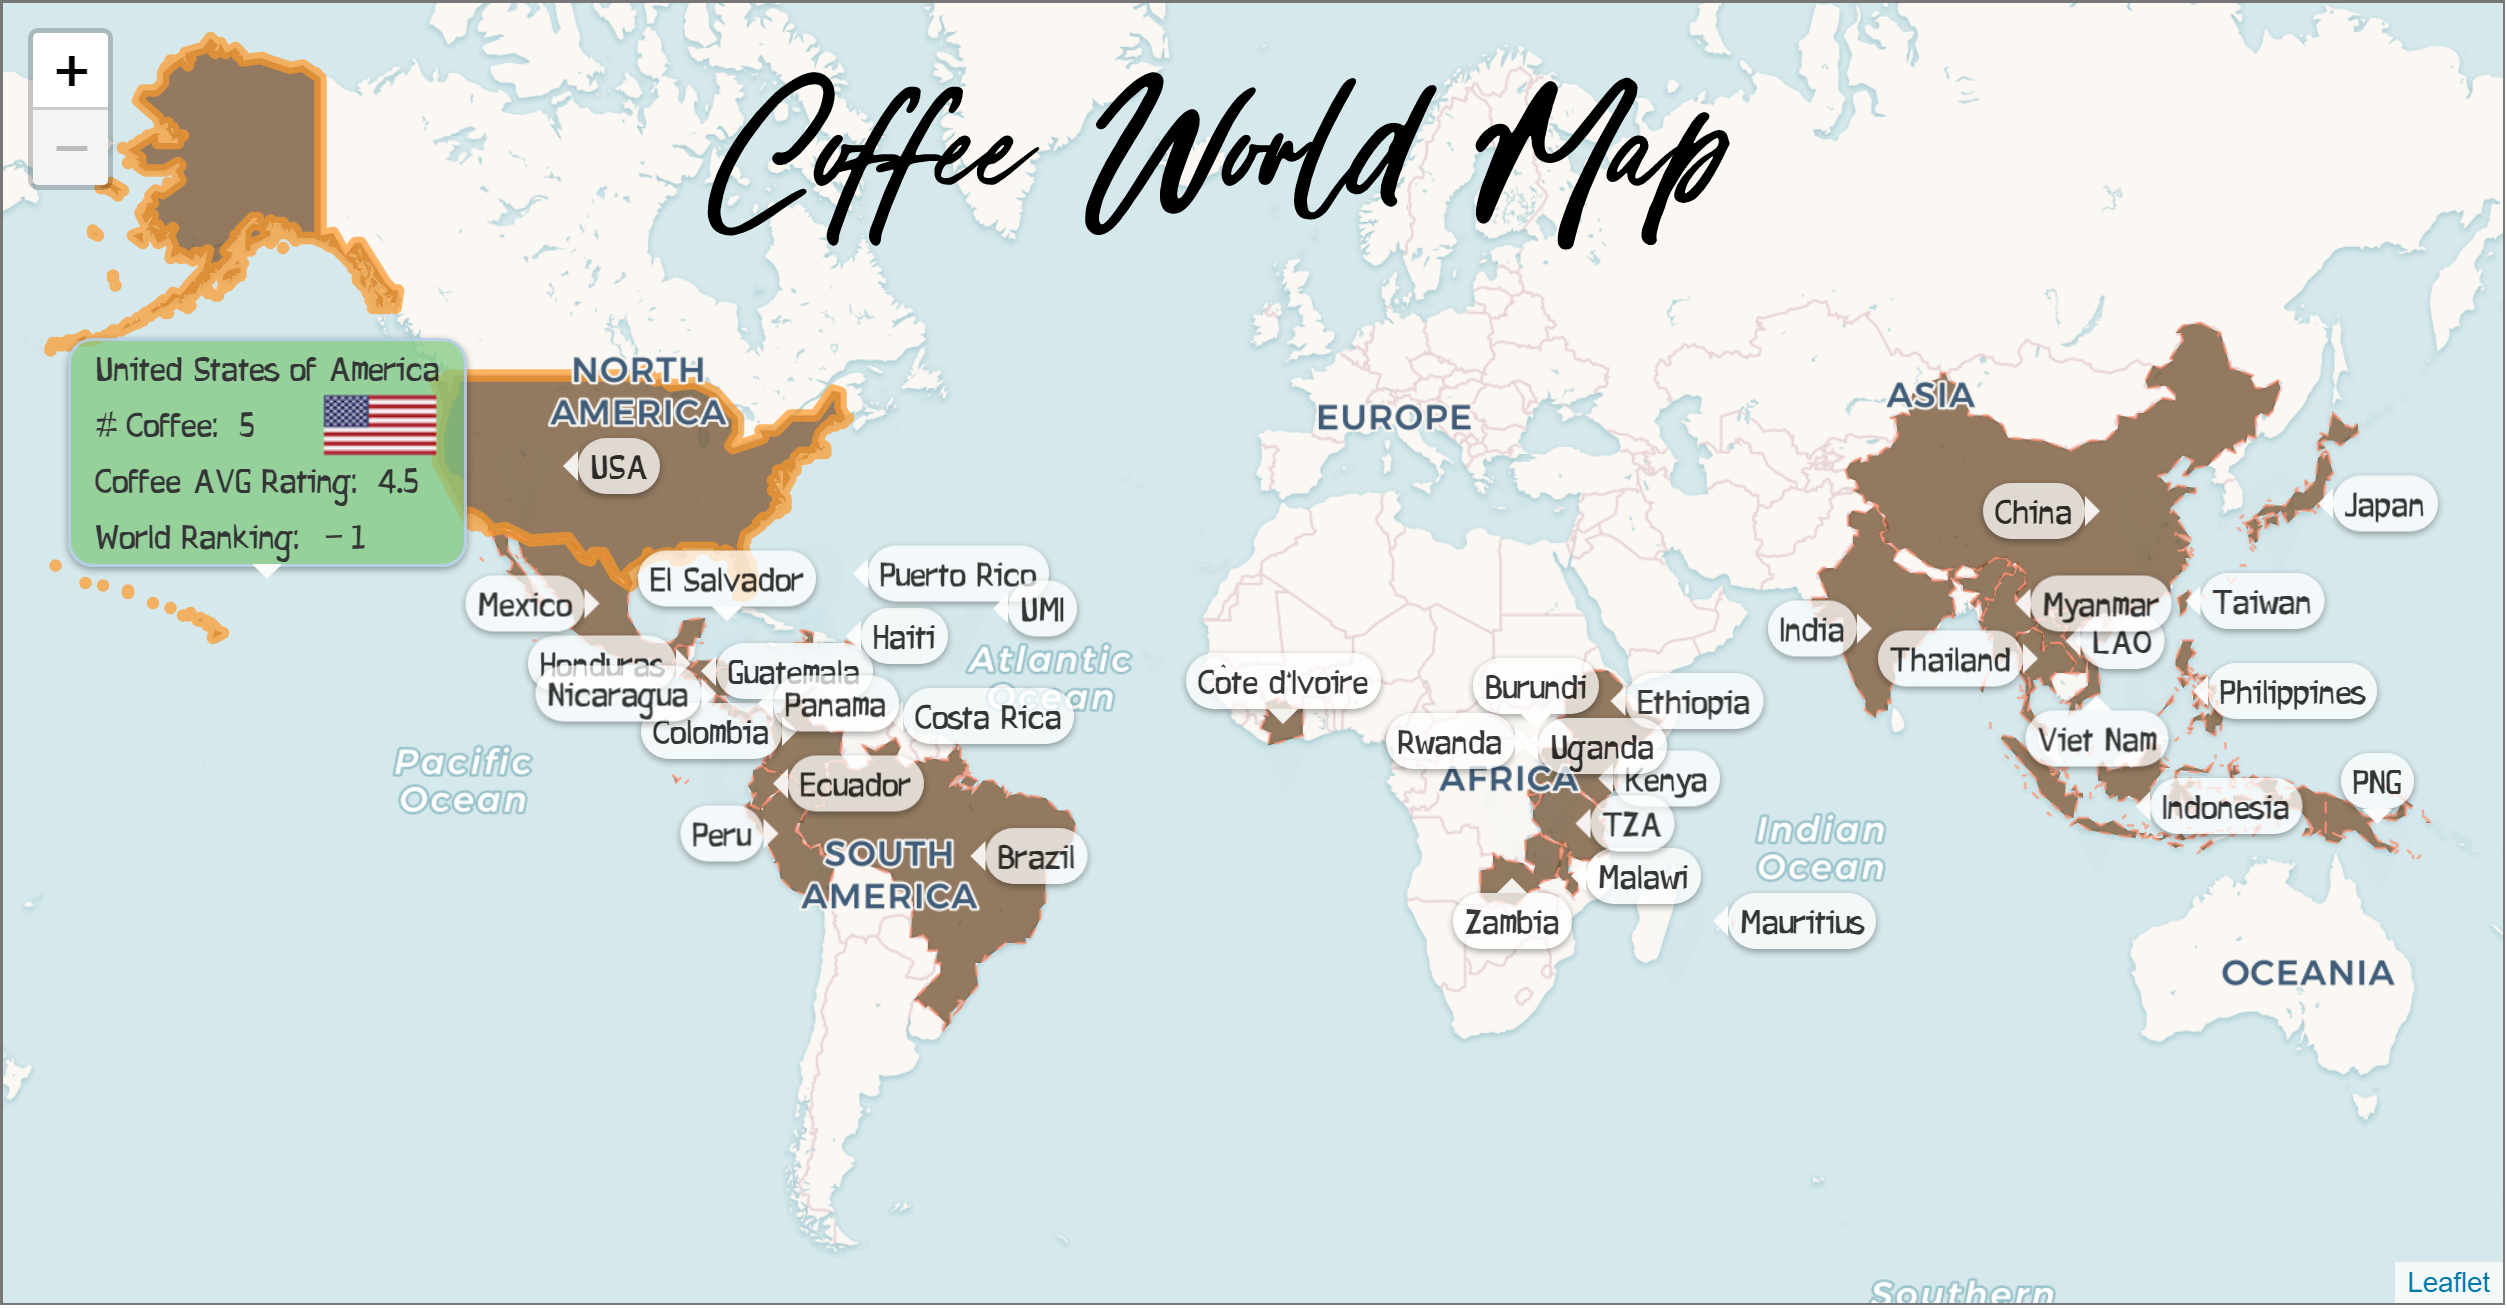
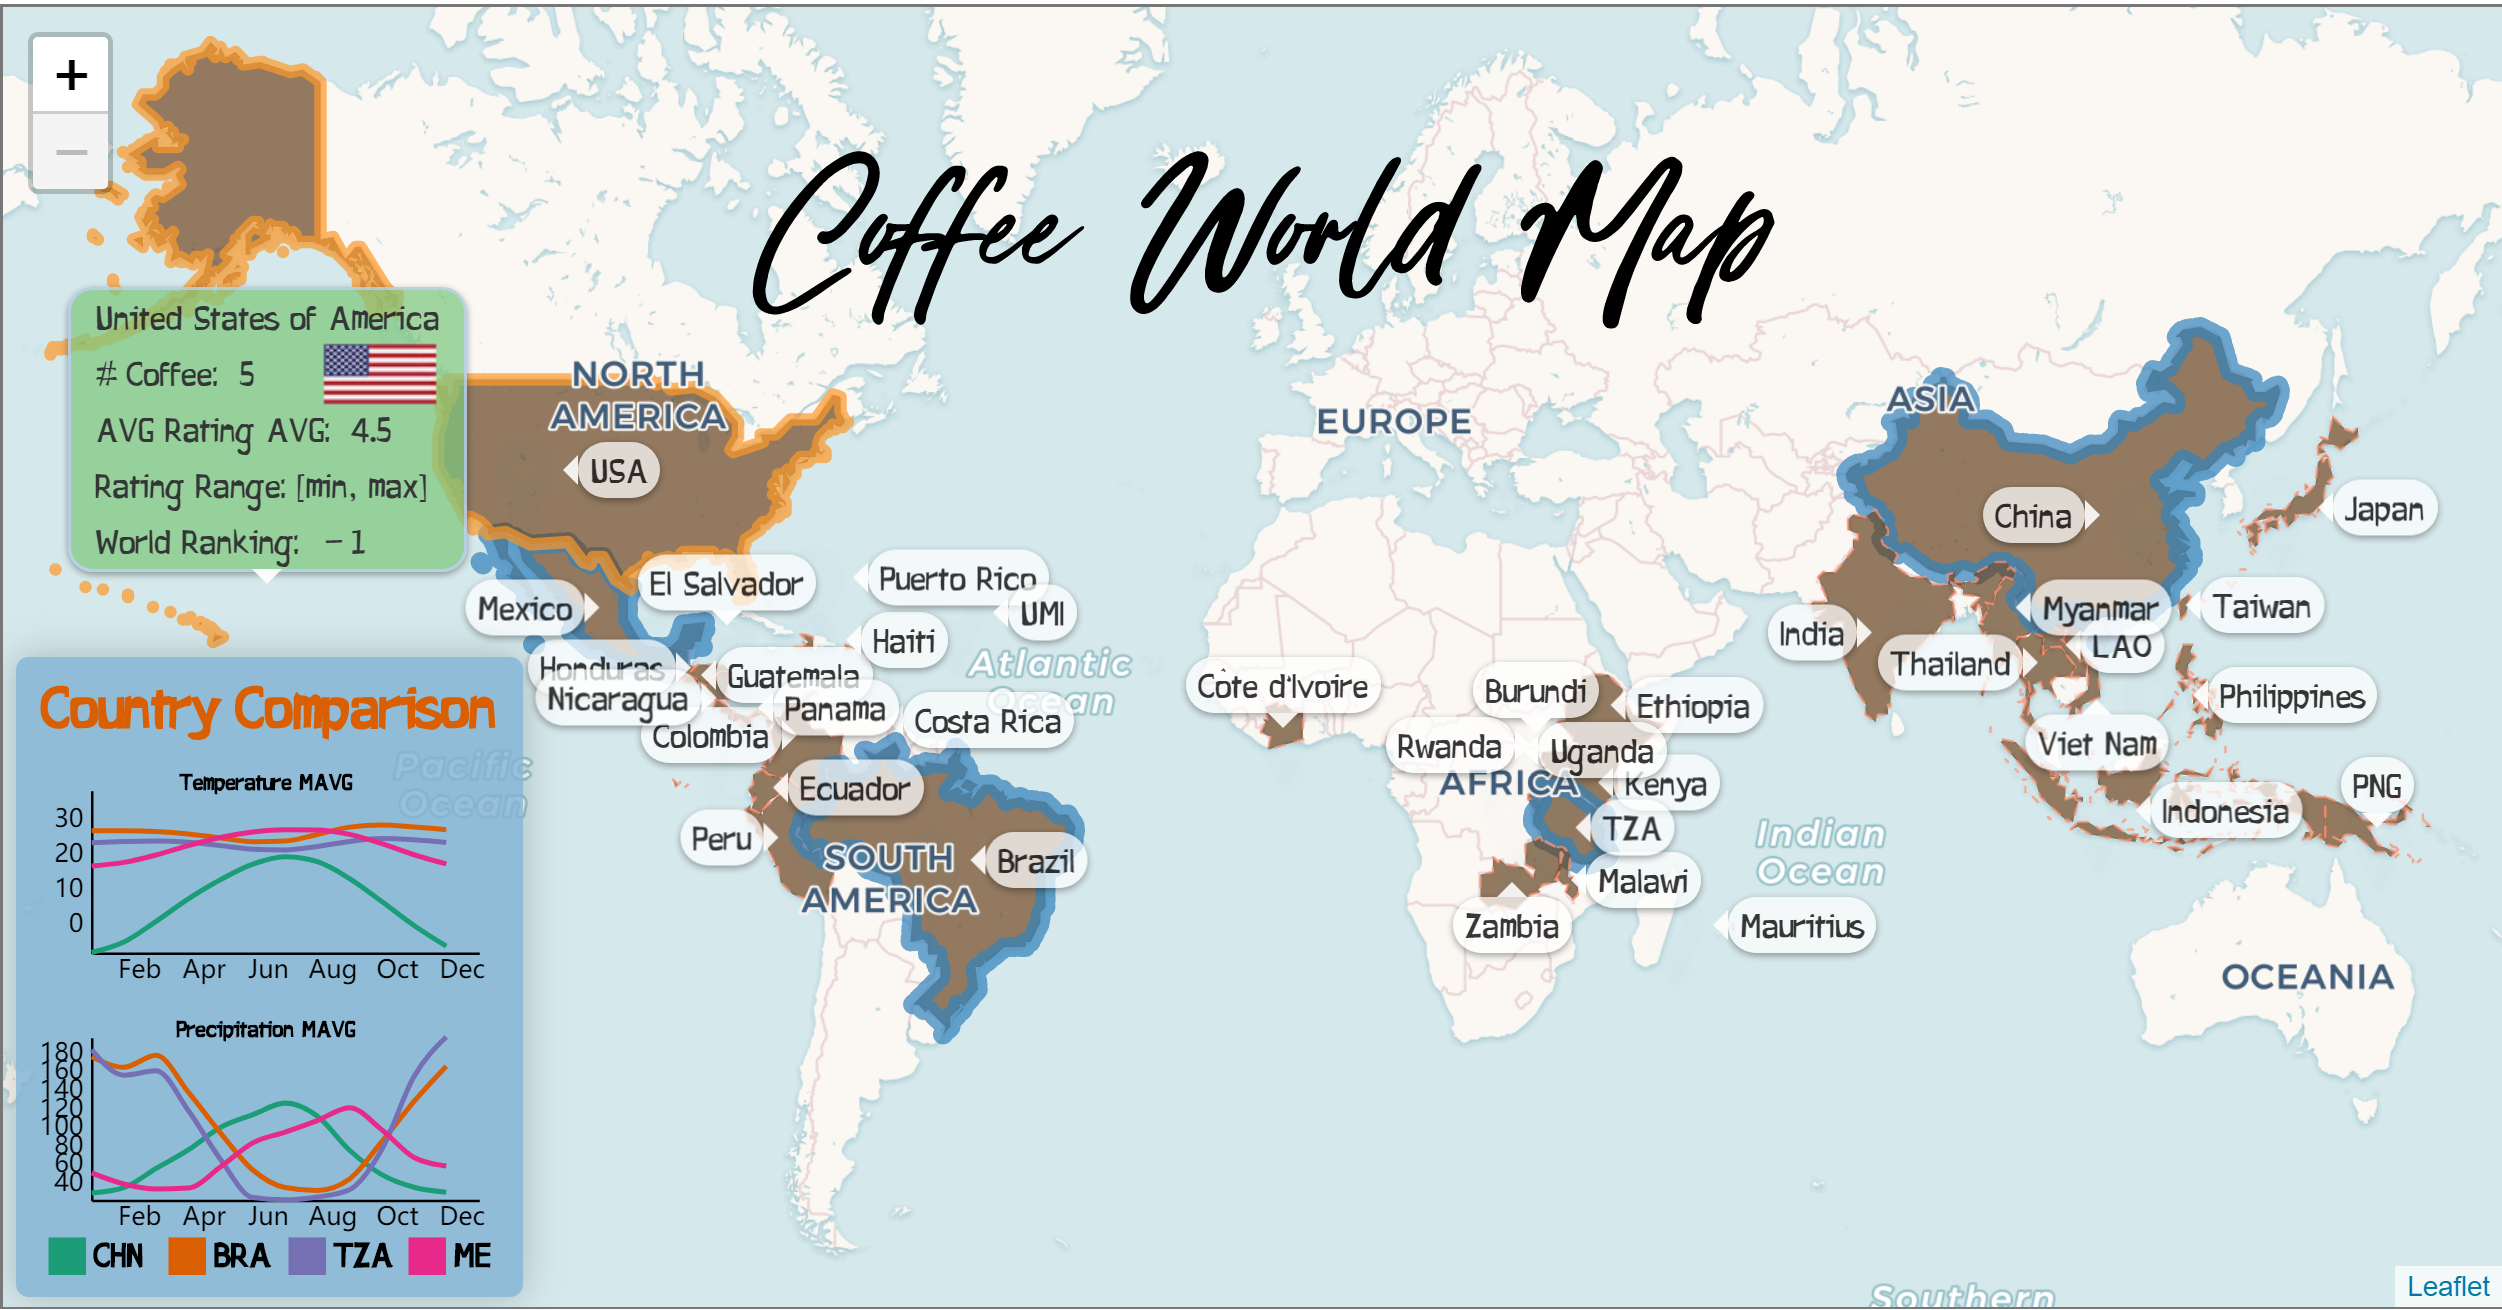
finish country info compare

diff --git a/worldMap/worldMap.js b/worldMap/worldMap.js
@@ -87,7 +87,7 @@ function worldMap(divId, maxZoom, title, mapType) {
 			.text("Country Comparison");
 		this.climateXscale = d3.scaleBand()
 			.domain(["Jan", "Feb", "Mar", "Apr", "May", "Jun", "Jul", "Aug", "Sep", "Oct", "Nov", "Dec"])
-			.range([5, 165])
+			.range([20, 175])
 			.padding(0.02);
 		L.DomUtil.setPosition(this.countryCompareInfo._div, L.point(-782, 250));
 	}
@@ -292,13 +292,22 @@ worldMap.prototype.updateCountryInfoCompare = function() {
 				.attr("height", 30);
 		} else {
 			appenddiv.attr("width", 200)
-				.attr("height", 190);
+				.attr("height", 210);
 			if (tempSVG.empty()){
 				tempSVG = appenddiv.append("svg")
 					.attr("id", this.divId + "tempDash")
-					.attr("width", 170)
-					.attr("height", 87)
-					.style("margin", 5);
+					.attr("width", 180)
+					.attr("height", 90)
+					.style("margin", 0);
+				tempSVG.selectAll("#temptitle")
+					.data(["Temperature MAVG"])
+					.enter().append("text")
+					.attr("id", "temptitle")
+					.text(d=>d)
+					.attr("transform", "translate(" + (tempSVG.attr("width")/2) + ", 10)")
+					.style("font-weight", "bold")
+					.style("font-size", 10)
+					.style("text-anchor", "middle");
 			}
 			if (brGroup.empty()){
 				brGroup = appenddiv.append("br");
@@ -306,14 +315,23 @@ worldMap.prototype.updateCountryInfoCompare = function() {
 			if (prSVG.empty()){
 				prSVG = appenddiv.append("svg")
 					.attr("id", this.divId + "prDash")
-					.attr("width", 170)
-					.attr("height", 87)
-					.style("margin", 5);
+					.attr("width", 180)
+					.attr("height", 105)
+					.style("margin", 0);
+				prSVG.selectAll("#prtitle")
+					.data(["Precipitation MAVG"])
+					.enter().append("text")
+					.attr("id", "prtitle")
+					.text(d=>d)
+					.attr("transform", "translate(" + (prSVG.attr("width")/2) + ", 10)")
+					.style("font-weight", "bold")
+					.style("font-size", 10)
+					.style("text-anchor", "middle");
 			}
 			/* plot the svg line chart */
 			let lineChartData = [];
 			this.countryClickedSet.each(function(countryCode) {
-				lineChartData.push({Country: countryInfoMap.get(countryCode)["Country"], Climate: countryClimateMap.get(countryCode)})
+				lineChartData.push({CountryCode: countryCode, Climate: countryClimateMap.get(countryCode)})
 			})
 			let tempRange = [
 				d3.min([d3.min(lineChartData, function(d) {
@@ -331,19 +349,105 @@ worldMap.prototype.updateCountryInfoCompare = function() {
 					return d3.max(d.Climate.pr);
 				}), 150])
 			];
-			console.log(lineChartData);
 
-			var tempScale = d3.scaleSqrt()
-        		.domain(deathRange)
-        		.range([5, 15]);
+			var tempScale = d3.scaleLinear()
+        		.domain(tempRange)
+        		.range([75, 10]);
 
-        	var xScale = d3.scaleBand()
-				.domain(xdomain)
-				.range([5, 10])
-				.padding(0.02);
+        	var prScale = d3.scaleLinear()
+        		.domain(prRange)
+        		.range([75, 10]);
 
+        	let xAxisTemp = tempSVG.select(".x-axis");
+        	if (xAxisTemp.empty()){
+        		xAxisTemp = tempSVG.append("g").attr("class", "x-axis").attr("transform", "translate(0, 75)").call(d3.axisBottom(this.climateXscale).tickSize(0));
+        		xAxisTemp.selectAll("text").filter(function(d, i){
+        			return i%2 == 0? true : false; 
+        		}).remove();
+            }
+        	
+        	let yAxisTemp = tempSVG.select(".y-axis");
+        	if (yAxisTemp.empty())
+        		yAxisTemp = tempSVG.append("g").attr("class", "y-axis").attr("transform", "translate(20,0)");
+        	yAxisTemp.call(d3.axisLeft(tempScale).tickSize(0).ticks(6));
 
-			console.log("plot line chart");
+        	let xAxisPr = prSVG.select(".x-axis");
+        	if (xAxisPr.empty()){
+        		xAxisPr = prSVG.append("g").attr("class", "x-axis").attr("transform", "translate(0, 75)").call(d3.axisBottom(this.climateXscale).tickSize(0));
+        		xAxisPr.selectAll("text").filter(function(d, i){
+        			return i%2 == 0? true : false; 
+        		}).remove();
+        	}
+
+        	let yAxisPr = prSVG.select(".y-axis");
+        	if (yAxisPr.empty())
+        		yAxisPr = prSVG.append("g").attr("class", "y-axis").attr("transform", "translate(20,0)");
+        	yAxisPr.call(d3.axisLeft(prScale).tickSize(0).ticks(6));
+			
+			/* update country legend */
+			let colorMap = ["#1b9e77", "#d95f02", "#7570b3", "#e7298a"]
+			//let colorMap = ["#66c2a5", "#fc8d62", "#8da0cb", "#e78ac3"];
+			let presentClimateLegend = prSVG.selectAll(".countryLegend")
+				.data(lineChartData);
+			presentClimateLegend.enter()
+				.append("rect")
+				.attr("class", "countryLegend")
+				.attr("width", 15)
+				.attr("height", 15)
+				.merge(presentClimateLegend)
+				.attr("x", function(d, i){
+					return 3 + i * 48;
+				})
+				.attr("y", 90)
+				.attr("fill", function(d, i){
+					return colorMap[i];
+				});
+			presentClimateLegend.exit().remove();
+
+			let presentClimateLegendText = prSVG.selectAll(".countryLegendText")
+				.data(lineChartData);
+			presentClimateLegendText.enter()
+				.append("text")
+				.attr("class", "countryLegendText")
+				.attr("width", 15)
+				.attr("height", 15)
+				.merge(presentClimateLegendText)
+				.attr("x", function(d, i){
+					return 21 + i * 48;
+				})
+				.attr("y", 102)
+				.text(d=>d.CountryCode)
+				.style("font-size", 15)
+				.style("font-weight", "bold");
+			presentClimateLegendText.exit().remove();
+
+			/* plot line chart */
+			let climateXscale = this.climateXscale;
+			let climateMonth = this.climateXscale.domain();
+			var tempLine = d3.line().x(function(d, i) { return climateXscale(climateMonth[i]); })
+        		.y(function(d) { return tempScale(d); })
+        		.curve(d3.curveMonotoneX);
+
+			var prLine = d3.line()
+				.x(function(d, i) { return climateXscale(climateMonth[i]); })
+        		.y(function(d) { return prScale(d); })
+        		.curve(d3.curveMonotoneX);
+
+        	let presentTempLine = tempSVG.selectAll(".linePlot").data(lineChartData);
+			presentTempLine.enter().append("path").attr("class", "linePlot")
+				.merge(presentTempLine)
+			    .attr('d', function(d){ console.log(tempLine(d.Climate.temp)); return tempLine(d.Climate.temp); })
+			    .style('stroke', function(d, i) { return colorMap[i]; })
+			    .style('stroke-width', 2)
+			    .style("fill", "none");
+
+        	let presentPrLine = prSVG.selectAll(".linePlot").data(lineChartData);
+			presentPrLine.enter().append("path").attr("class", "linePlot")
+				.merge(presentPrLine)
+			    .attr('d', function(d){ console.log(prLine(d.Climate.pr)); return prLine(d.Climate.pr); })
+			    .style('stroke', function(d, i) { return colorMap[i]; })
+			    .style('stroke-width', 2)
+			    .style("fill", "none");
 		}
 	}
 }
@@ -432,7 +536,7 @@ function updateSelectedCountrySet(e) {
 			this.associatedMap.countryLayer.resetStyle(e.target);
 			associatedMap.updateCountryInfoCompare();
 		} else {
-			if (associatedMap.countryClickedSet.size() <= 5) {
+			if (associatedMap.countryClickedSet.size() < 4) {
 				layer.selected = true;
 				associatedMap.countryClickedSet.add(layer.feature["properties"]["ISO_A3"]);
 				
